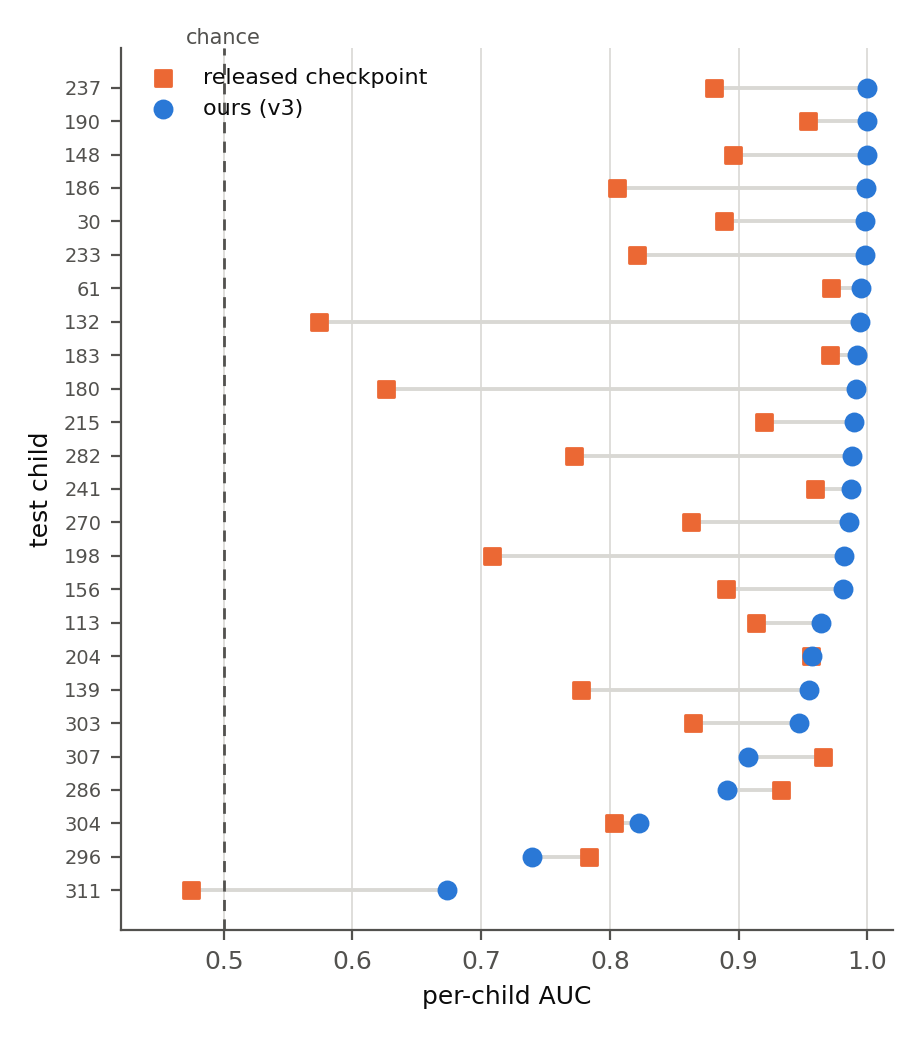
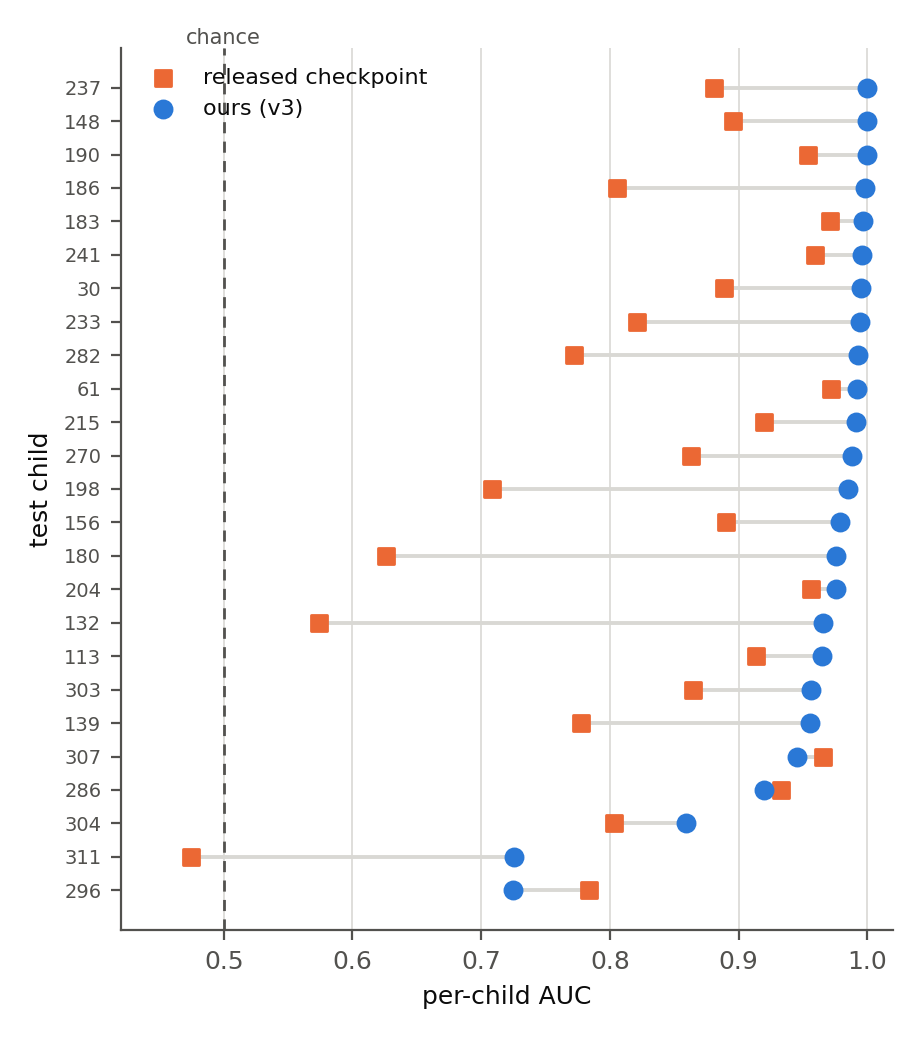
Plot the per-child figure from the three-seed family
The per-child figure plotted a single run (stage1_detector_v3, 0.9532)
that the paper names as a low draw. It now averages the matched
lambda=0 three-seed family. Other figures regenerated.

diff --git a/results/make_paper_figures.py b/results/make_paper_figures.py
@@ -122,7 +122,12 @@ plt.close(fig)
 
 # ------------------------------------------------------------- figure 2
 ckpt = per_child_aucs(scores_of("results/segment_scores/gate03_segment_scores.csv"))
-ours = per_child_aucs(scores_of("results/segment_scores/stage1_detector_v3_test_scores.csv"))
+# The headline detector is the matched lambda=0 three-seed family, so the
+# per-child curve averages the three seeds. Plotting one run would show a
+# worst-child value that the seed lottery moves by about 0.035, which is the
+# reading error this paper documents in Section 4.6.
+_ours_seeds = [per_child_aucs(scores_of(p)) for p in LAM_FILES["0"]]
+ours = {c: float(np.mean([s[c] for s in _ours_seeds])) for c in _ours_seeds[0]}
 children = sorted(ours, key=lambda c: ours[c])
 y = np.arange(len(children))
 
